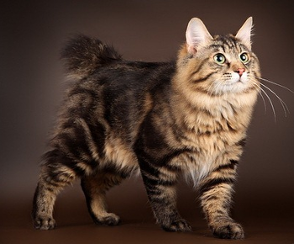
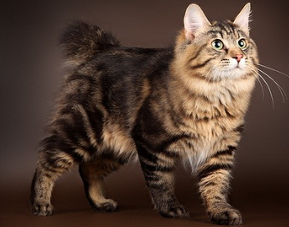
доп задание

diff --git a/index.css b/index.css
@@ -32,9 +32,17 @@ label.list
     box-shadow: 0 0 1em;
 }
 
+.photo
+{
+    position: relative;
+    height: 245px;
+}
+
 .photo img
 {
     width: 100%;
+    position: absolute;
+    bottom: 0;
 }
 
 .photo img:hover
@@ -170,6 +178,7 @@ a:hover
 .list:checked ~ .cat .information
 {
     width: 29%;
+    height: 330px;
 }
 
 .list:checked ~ .cat .photo img
@@ -190,6 +199,11 @@ a:hover
         margin-left: 1.6%;
         font-size: .9em;
     }
+
+    .photo
+    {
+        height: 285px;
+    }
 }
 
 @media screen and (max-width: 800px)
@@ -199,6 +213,10 @@ a:hover
         width: 46%;
         margin-left: 1.5%;
         font-size: .7em;
+    }
+    .photo
+    {
+        height: 290px;
     }
 }
 
